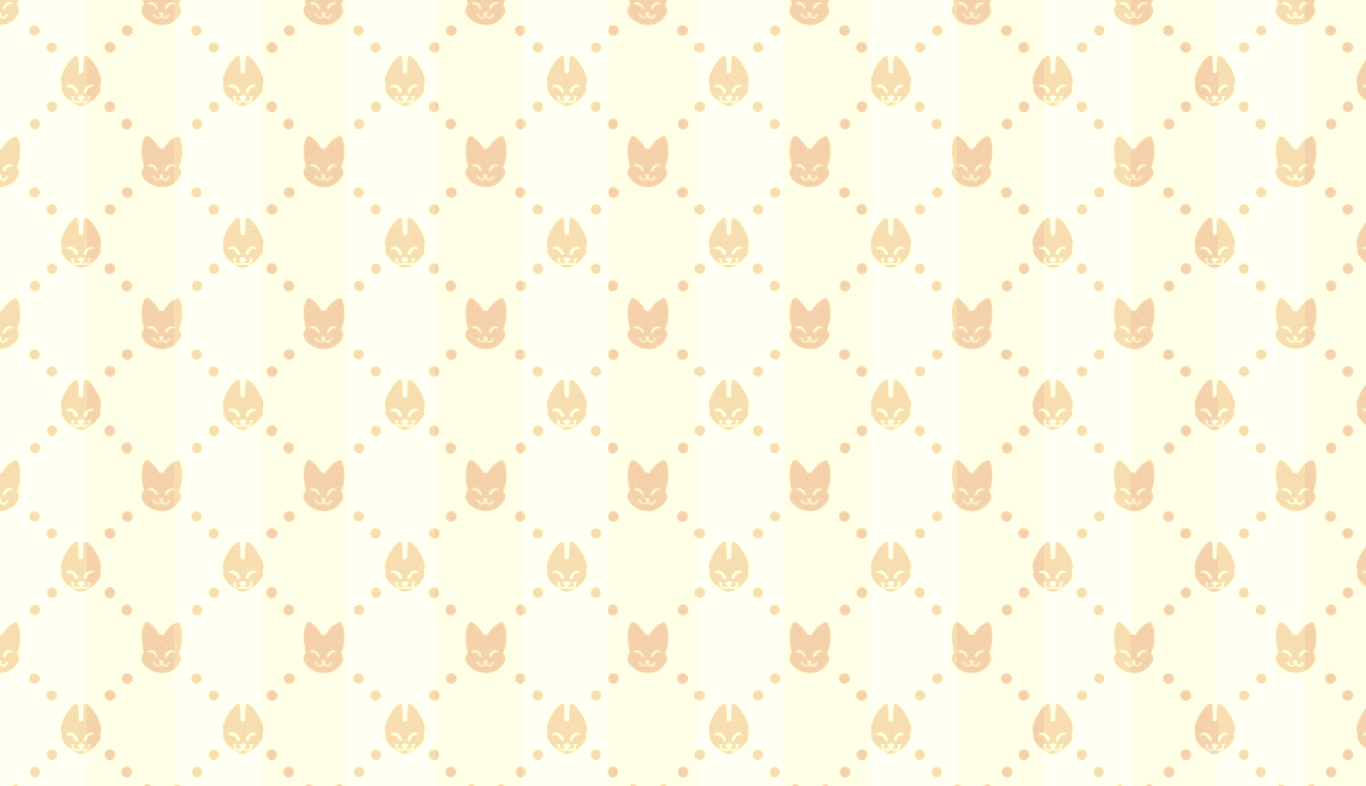
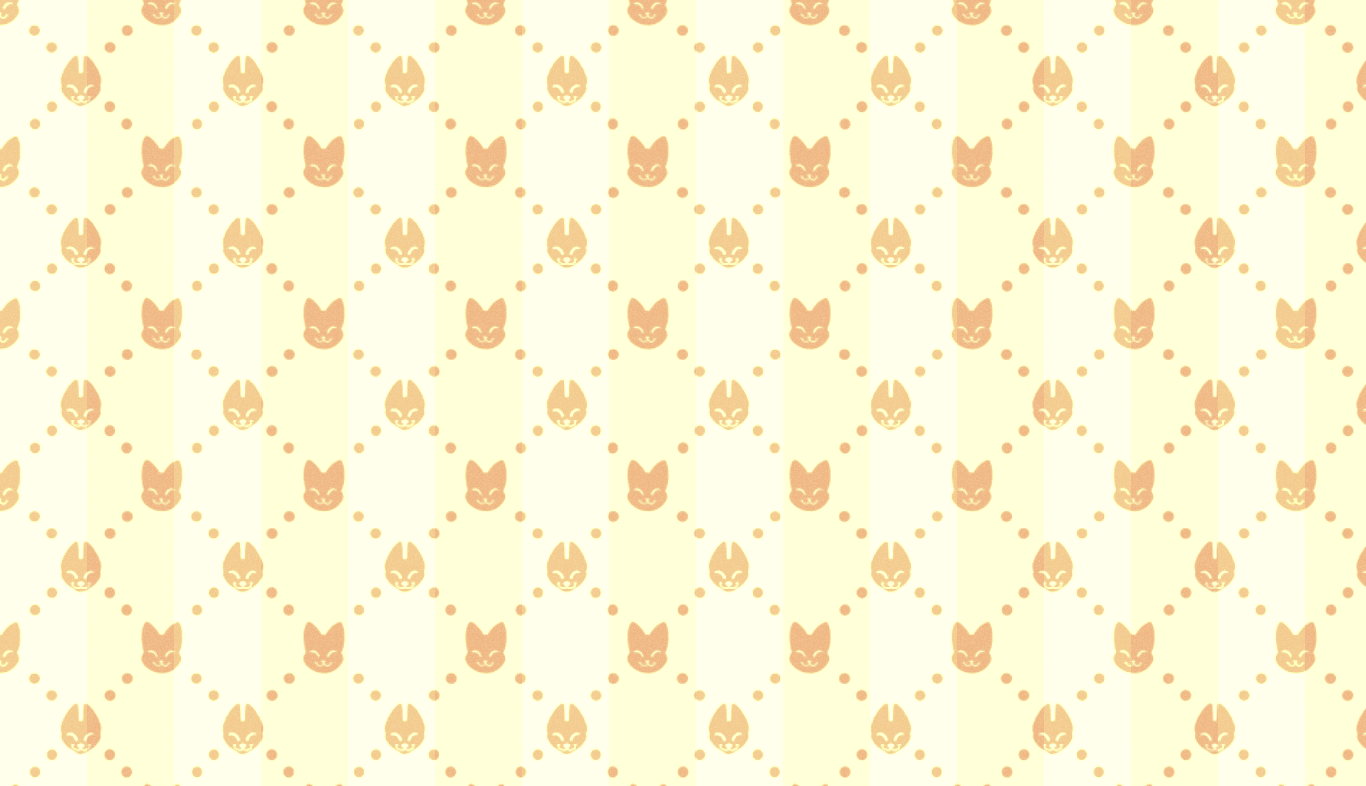
bg changes and home adjust

diff --git a/public/style/homeStyle.css b/public/style/homeStyle.css
@@ -1,6 +1,4 @@
-.home{
-	height: 100%;
-}
+
 
 .swipe-buttons {
 	text-align:center;
